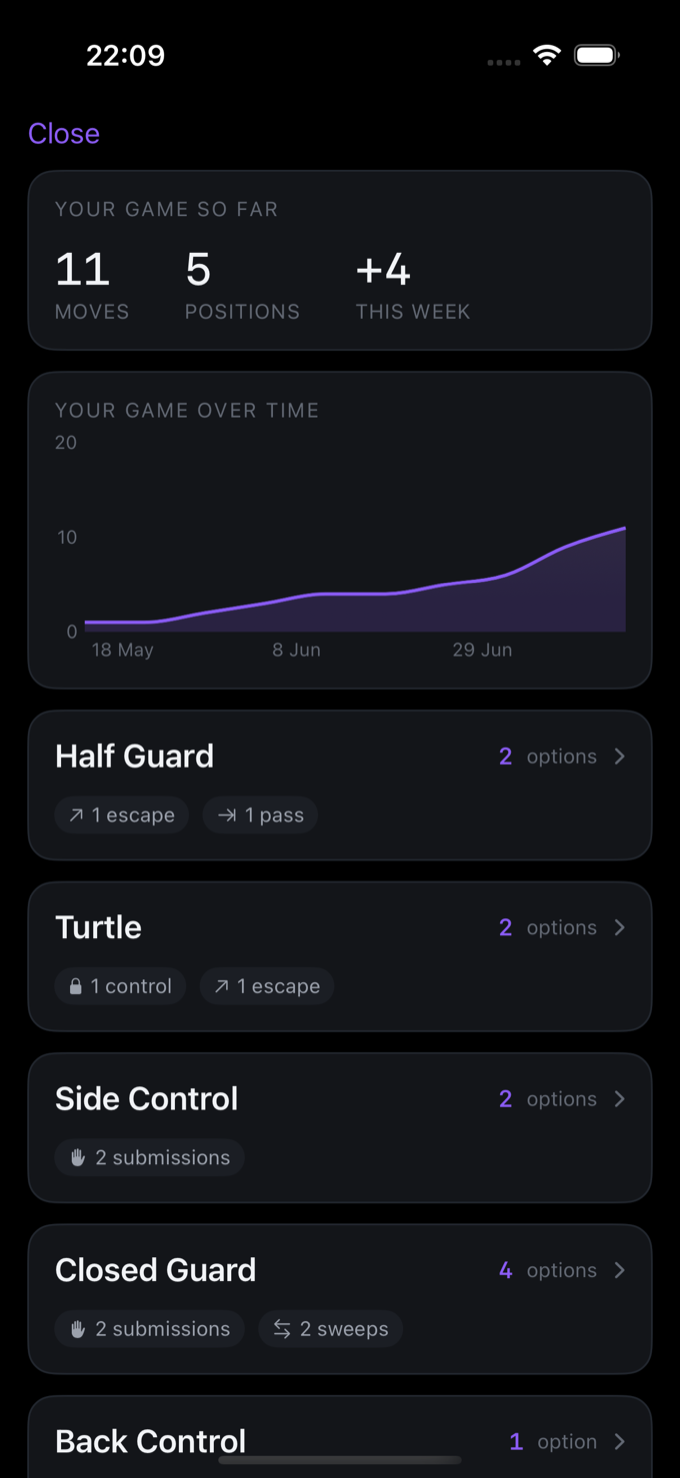
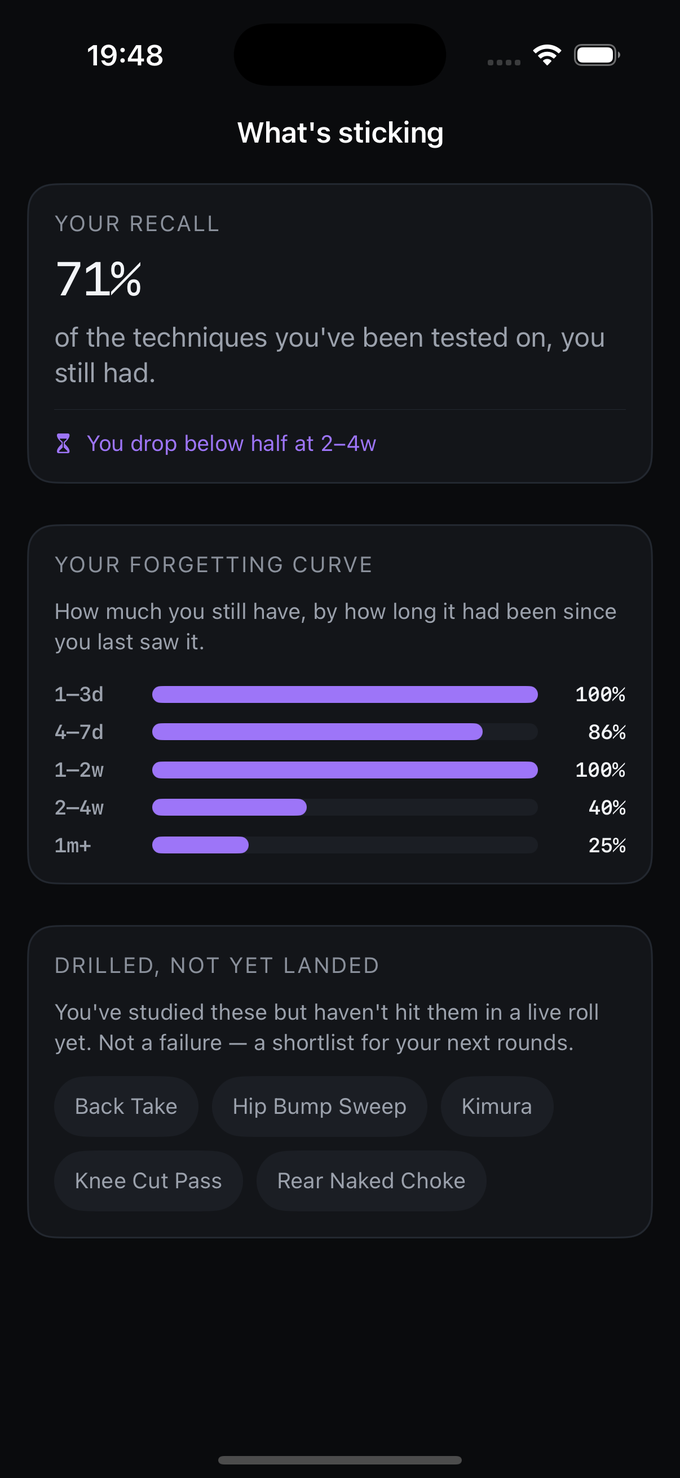
Fresh product screens from the new dummy data; Frame gets its fourth figure
Both apps rebuilt and recaptured against Dan's new dummy-data feature, which
does exactly what it was built for -- every screen now carries real history
instead of a first-run state. Frame reads 84 sessions, 94 mat hours, a purple
belt with a full promotion timeline, a nineteen-node position graph, three ranked
leaks with trend arrows. Granite still shows the struck-through loads being
rewritten week to week and the review that explains each change.

FRAME NOW HAS FOUR BODY FIGURES, matching Granite. It had three, and the gap was
never really FRAME_SEED -- see below.
  hero    f-graph      the position graph, which is literally "your game, built
                       from logged sessions" and the most legible thing in the app
  Fig 01  f-retention  the forgetting curve -- caption corrected 63% -> 71%, the
                       number the screen actually shows now
  Fig 02  f-game       THE SAME SCREEN one rank down
  Fig 03  f-today      the daily read
  Fig 04  f-leaks      NEW: the holes ranked, with a drill for each

The belt pair is now honest. Fig 02 claims "identical data, white belt -- every
accent is derived from the rank you hold", and it previously sat next to a
DIFFERENT screen captured at a different time. Both halves are now the retention
screen with the same seeded history, taken twice with FRAME_BELT=purple/white:
71% recall and the same 100/86/100/40/25 curve in both, 2.4% of pixels differing,
all of it accent. The claim and the image finally agree.
[…]

diff --git a/work-frame.html b/work-frame.html
@@ -248,7 +248,7 @@ body.cursor-on,body.cursor-on a,body.cursor-on button,body.cursor-on summary{cur
       <div class="csmeta"><div><b>Services</b><span>Native &middot; On-device</span></div><div><b>Site</b><span><a href="https://www.framebjj.app" target="_blank" rel="noopener">framebjj.app &nearr;</a></span></div><div><b>Role</b><span>Design + build</span></div><div><b>Status</b><span>Alpha</span></div><div><b>Year</b><span>2026</span></div></div>
     </div>
     <figure class="cshmedia reveal">
-      <div class="device device-lg"><img src="media/shots/f-retention.png" alt="Frame — your game, quantified from your own sessions" loading="eager" width="680" height="1478"></div>
+      <div class="device device-lg"><img src="media/shots/f-graph.png" alt="Frame — the position graph built from logged sessions" loading="eager" width="680" height="1478"></div>
       <figcaption class="cshcap"><span class="dot"></span>Your game, built from logged sessions</figcaption>
     </figure>
   </div>
@@ -258,11 +258,11 @@ body.cursor-on,body.cursor-on a,body.cursor-on button,body.cursor-on summary{cur
     <div>
       <div class="block reveal"><p class="csintro">Frame is a BJJ training journal built on a hard truth: you forget most of what you&rsquo;re taught within days. Log a session in seconds by voice, and Frame holds every technique, brings it back just before you&rsquo;d forget it, and shows you &mdash; in plain data &mdash; that you&rsquo;re actually improving. Built for the belts who feel stuck, so they have a reason to keep turning up.</p></div>
       <div class="stakes reveal"><div class="slabel">The problem</div><div class="sl">Every rung of the ladder leaks &mdash; for the same reason.</div><div class="rungs"><div class="rung"><b>White &rarr; blue</b><span class="fig">~1 in 10</span><span>Everything is new, everything hurts, and the first real sign of progress is months away.</span></div><div class="rung"><b>Blue &rarr; purple</b><span class="fig">50&ndash;70%</span><span>The gains go subtle &mdash; angles, timing, awareness. It has a name: the blue belt blues.</span></div><div class="rung"><b>Purple &amp; beyond</b><span class="fig">Quiet drift</span><span>They rarely churn like blues. They burn out and disappear without saying anything.</span></div></div><p class="mech">Different belts, different excuses, one mechanism: when progress goes invisible between classes, people drift.</p><p class="cav">Belt-attrition figures are community estimates, not studies &mdash; we treat them as the shape of the problem, not proof of it. ~6M practitioners worldwide (Gymdesk); median UK adult membership &pound;70/mo (Matador, 2026).</p></div>
-      <div class="block reveal"><div class="pfig lead"><div class="device"><img src="media/shots/f-gamenew.png" alt="Frame — how well techniques are sticking, measured at 63%" loading="lazy" width="680" height="1478"></div><div class="pcap"><span class="pn">Fig. 01 &middot; Frame &middot; how it&rsquo;s sticking</span><span class="pd">The forgetting curve, measured on your own sessions: 63% retention, and the point &mdash; 2&ndash;4 weeks &mdash; where techniques start falling out.</span></div></div></div>
+      <div class="block reveal"><div class="pfig lead"><div class="device"><img src="media/shots/f-retention.png" alt="Frame — how well techniques are sticking, measured at 71%" loading="lazy" width="680" height="1478"></div><div class="pcap"><span class="pn">Fig. 01 &middot; Frame &middot; how it&rsquo;s sticking</span><span class="pd">The forgetting curve, measured on your own sessions: 71% recall, and the point &mdash; 2&ndash;4 weeks &mdash; where it drops below half.</span></div></div></div>
       <div class="aud reveal"><div class="who"><h3><span class="b">1</span>For the individual</h3><p>You forget most of what you are taught within days, and you cannot see yourself improving. <em>Frame holds the detail and shows you the proof.</em></p></div><div class="who"><h3><span class="b">2</span>For the room</h3><p>The cheapest growth in jiu-jitsu is the member you already have, kept one more year. <em>A room that can see its own progress is harder to leave.</em></p></div></div>
       <div class="block reveal"><h2>Built against the forgetting curve</h2><p>A single session throws four or five details at you &mdash; the grip, the angle, the small correction that made the sweep finally work &mdash; and within a week almost all of them are gone. Frame is built around that decay rather than despite it. Everything you log comes back to you on a schedule: a few days later, then a week, then a month, timed to land just before you&rsquo;d lose it. There&rsquo;s nothing to revise and no flashcards to sit down with &mdash; the app works out what&rsquo;s about to fade and puts it in front of you. Retention is the product, and it&rsquo;s the one thing a notebook has never done.</p></div>
       <div class="block reveal"><h2>The log you&rsquo;ll actually keep</h2><p>Everyone knows they should keep a training journal. Almost nobody does, because writing one up after an hour of getting choked is the last thing you want to do. Frame removes the friction: talk for thirty seconds in the car &mdash; &ldquo;started in closed guard, hit a scissor sweep to mount, got swept, tapped to an armbar&rdquo; &mdash; and it transcribes on-device and turns it into a structured session you just confirm. Then it reads your game back to you: the positions you live in, the subs you land, the ones that keep catching you, and hands you one or two specific things to hunt next session. A plan, not a feed.</p><div class="pfig"><div class="device"><img src="media/shots/f-game.png" alt="Frame — the same screen at white belt, accent derived from rank" loading="lazy" width="680" height="1478"></div><div class="pcap"><span class="pn">Fig. 02 &middot; Frame &middot; the same screen, one rank down</span><span class="pd">Identical data, white belt. Every accent in the app is derived from the rank you hold &mdash; so the interface tells you where you are before you read a word of it.</span></div></div><div class="pfig flip"><div class="device"><img src="media/shots/f-today.png" alt="Frame — the daily home: log in seconds, recall what's fading" loading="lazy" width="680" height="1478"></div><div class="pcap"><span class="pn">Fig. 03 &middot; Frame &middot; the daily read</span><span class="pd">Log in thirty seconds by voice &mdash; and the same screen brings back what you&rsquo;re about to forget, before you forget it.</span></div></div></div>
-      <div class="block reveal"><h2>The app wears your belt</h2><p>Frame is built for the belt journey and it shows it &mdash; the whole app takes on the colour of your rank and changes with you as you&rsquo;re promoted. It runs offline-first and keeps your training history yours: saved the instant you log it, private, exportable, never sold. The goal underneath every decision is simple and hard: make the progress you can&rsquo;t feel visible, so the belts who&rsquo;d otherwise quit have a reason to come back for the next stripe &mdash; not more features, but more people still on the mat a year from now.</p></div>
+      <div class="block reveal"><h2>The app wears your belt</h2><p>Frame is built for the belt journey and it shows it &mdash; the whole app takes on the colour of your rank and changes with you as you&rsquo;re promoted. It runs offline-first and keeps your training history yours: saved the instant you log it, private, exportable, never sold. The goal underneath every decision is simple and hard: make the progress you can&rsquo;t feel visible, so the belts who&rsquo;d otherwise quit have a reason to come back for the next stripe &mdash; not more features, but more people still on the mat a year from now.</p><div class="pfig"><div class="device"><img src="media/shots/f-leaks.png" alt="Frame — the three holes in your game, ranked from your own logged sessions" loading="lazy" width="680" height="1478"></div><div class="pcap"><span class="pn">Fig. 04 &middot; Frame &middot; the holes, ranked</span><span class="pd">The same data read back as a shortlist: what catches you most, whether it is getting better or worse, and one drill for each &mdash; so a session has a target instead of a vibe.</span></div></div></div>
       <div class="decide reveal">
         <span class="dlabel">The ledger &middot; kept / cut</span>
         <div class="dl">Built by choosing what to leave out.</div>
